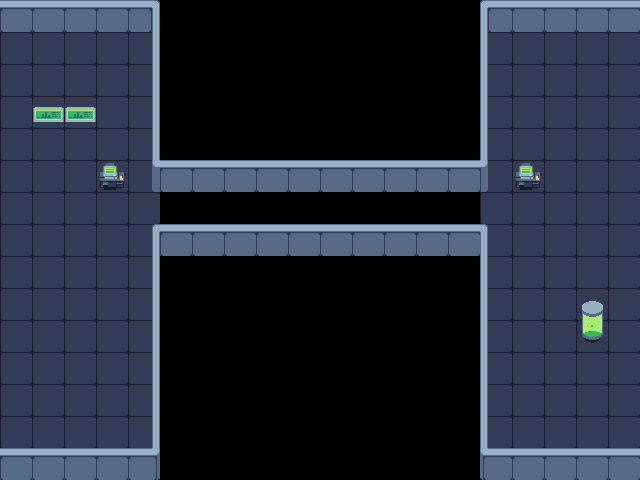
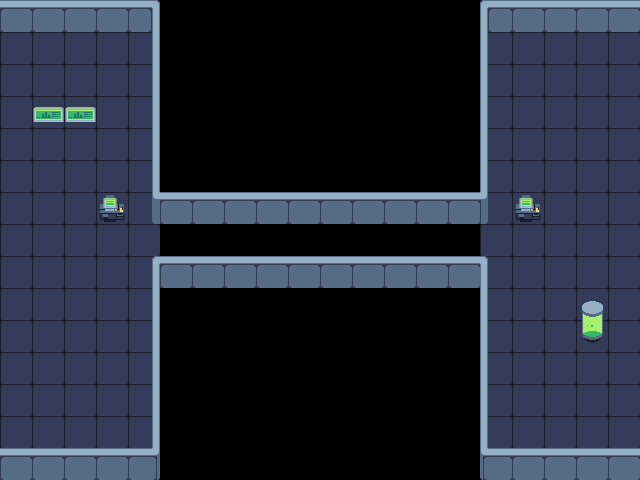
Modify background map

Changed region(s): [[0.1562, 0.3125, 0.8438, 0.625]]

diff --git a/gamescreen/process.js b/gamescreen/process.js
@@ -7,10 +7,10 @@ const context = canvas.getContext('2d');
 
 let bridgeTiles = [];
 for (let i = 0; i < 10; i++) {
-  bridgeTiles.push(BridgeTile(context, 176 + 32 * i, 208));
+  bridgeTiles.push(BridgeTile(context, 176 + 32 * i, 240));
 }
 
-const player = Player(context, 112, 192);
+const player = Player(context, 112, 224);
 
 let result = [];
 let submitted = false;
@@ -81,7 +81,7 @@ function doFrame(now) {
         bridgeTiles[i].danger();
       }
 
-      player.setXY(112, 192);
+      player.setXY(112, 224);
       player.move();
     }
 
@@ -133,7 +133,7 @@ function doFrame(now) {
       }
 
       for (let i = 0; i < 10; i++) {
-        context.fillText(result[i], 176 + 32 * i, 284);
+        context.fillText(result[i], 176 + 32 * i, 316);
       }
     }   
     
